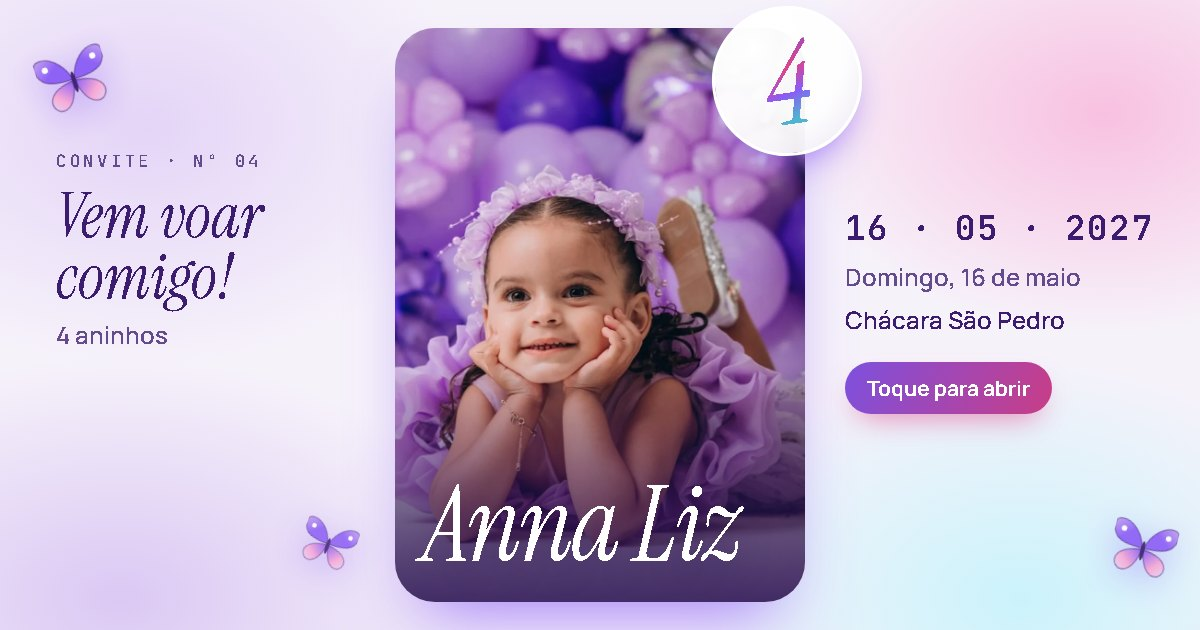
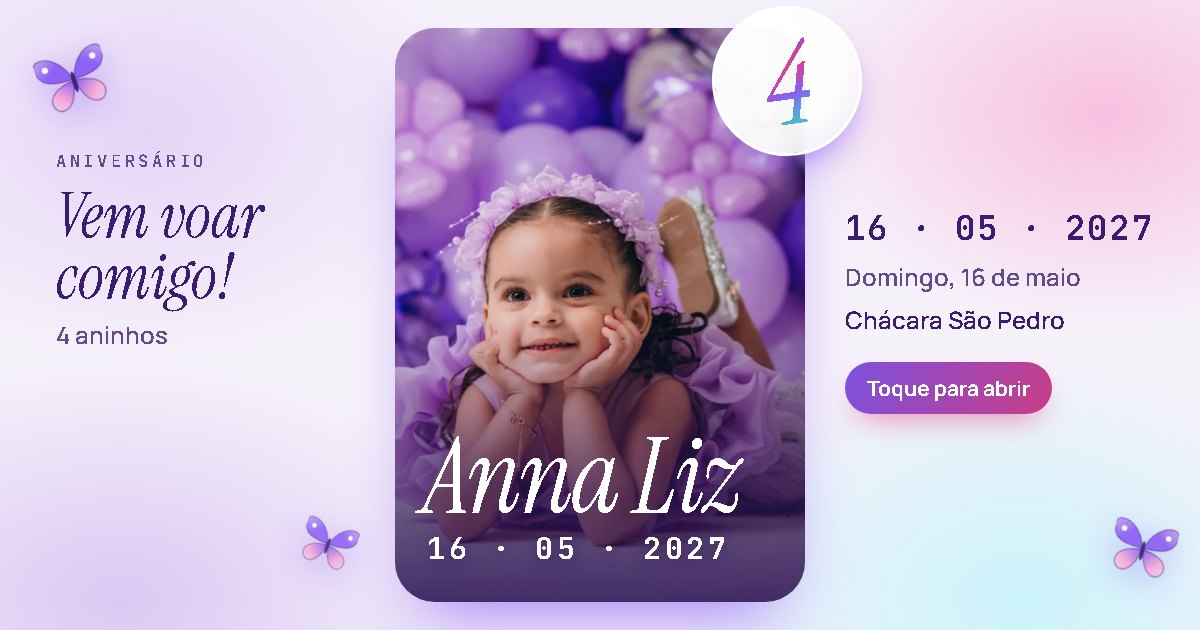
Etapa 7 (final): og.jpg no visual novo e README atualizado
- og.jpg: sem o rótulo "Convite · Nº"; a data também dentro da foto,
  para a miniatura quadrada do WhatsApp mostrar nome, idade e data.
- README: o que saiu, "Você vem?" sem número de pessoas, borboleta da
  abertura em imagem, tabela de desempenho antes/depois (7fff1bb → atual),
  Lighthouse final 88/100/100/100 e passo a passo da Vercel com o repositório.

diff --git a/README.md b/README.md
@@ -3,13 +3,13 @@
 Convite de aniversário em formato de site (uma página), feito para ser aberto **no celular** pelo link do WhatsApp.
 Visual "iridescente tech": fundo perolado, gradientes holográficos, cartões em bento e borboletas metalizadas, tudo tirado das fotos do ensaio.
 
-- Abertura com borboleta holográfica: as asas abrem e a tela se dissolve num brilho iridescente
+- Abertura com a borboleta de `originais/borboleta.png`: as asas abrem e o convite aparece em ~0,55 s depois do toque
 - Hero com a foto principal em "cartão holográfico", que inclina com o giroscópio ou o dedo
 - Borboletas 3D/2D que fogem do dedo, pousam na foto e **podem ser pegas** (meta: 10)
 - Raspadinha prateada na data e velinhas para apagar segurando o dedo (ou soprando)
 - Contagem regressiva, local e agenda, galeria com lightbox, confirmação pelo WhatsApp e Pix
 
-**Lighthouse (mobile, build de produção, Lighthouse 13):** Performance 96 · Acessibilidade 100 · Boas práticas 100 · SEO 100.
+**Lighthouse (mobile, build de produção, Lighthouse 13.6):** Performance 88 · Acessibilidade 100 · Boas práticas 100 · SEO 100 (LCP 3,2 s).
 
 ---
 
@@ -40,18 +40,15 @@ Tudo fica em **`src/config/convite.ts`**. Procure por `TODO`:
 
 O horário já está definido: `festa.dataHora` é `2027-05-16T16:00:00-03:00` e `horarioDefinido` é `true`. O cartão mostra 16:00 e a agenda (Google e `.ics`) cria o evento das 16:00 às 20:00 (`duracaoHoras: 4`). Se um dia voltar a ser "a definir", basta pôr `horarioDefinido: false`: o convite mostra "A definir" e a agenda vira evento de dia inteiro.
 
-Depois de mudar data, nome ou local, gere de novo a imagem de prévia: `npm run og`.
+Depois de mudar data, nome ou local, gere de novo a imagem de prévia: `npm run og`. A imagem (`public/og.jpg`, 1200×630) tem a foto principal, "Anna Liz", "4 aninhos" e a data; o quadrado do meio (foto + nome + data + "4") funciona sozinho na miniatura pequena do WhatsApp.
+
+A borboleta da abertura sai de `originais/borboleta.png`: `npm run borboleta` (ou `npm run borboleta -- 400 60` para escolher largura e qualidade). O original atual tem só 294 px; com um de 600 px ou mais ela fica mais nítida em telas 3x.
 
 ## 3. Publicar na Vercel (e atualizar o `site.url`)
 
-1. Crie um repositório **privado** no GitHub e envie o projeto:
-   ```bash
-   git branch -M main
-   git remote add origin https://github.com/SEU-USUARIO/convite-anna-liz.git
-   git push -u origin main
-   ```
-2. Em [vercel.com](https://vercel.com), clique em **Add New → Project**, importe o repositório e clique em **Deploy**. O Vite é detectado sozinho (build `npm run build`, saída `dist`).
-3. Copie o endereço que a Vercel mostrar, ex.: `https://convite-anna-liz.vercel.app`.
+1. O projeto já está no repositório privado `https://github.com/antonioanf/convite-borboleta` (branch `main`). Envie o que estiver só no computador com `git push`.
+2. Em [vercel.com](https://vercel.com), entre com a conta do GitHub, clique em **Add New → Project**, autorize o acesso ao repositório `convite-borboleta` (se ele não aparecer: **Adjust GitHub App Permissions** e marque o repositório) e clique em **Deploy**. O Vite é detectado sozinho (build `npm run build`, saída `dist`).
+3. Copie o endereço que a Vercel mostrar, ex.: `https://convite-borboleta.vercel.app`.
    Para um nome mais bonito: **Settings → Domains** (dá para trocar o subdomínio `.vercel.app`).
 4. No `convite.ts`, coloque esse endereço em `site.url` (sem barra no final).
 5. Rode `npm run og`, faça commit e `git push`. A Vercel publica de novo sozinha em ~1 minuto.
@@ -100,6 +97,7 @@ npm run fotos     # gera public/fotos/<nome>.webp (até 1200 px) e <nome>-600.we
 | `anna-balao3` | Só na galeria |
 
 - Cada foto tem `largura`, `altura` e `foco` (ponto do recorte, CSS `object-position`) no config.
+- Nenhuma foto tem legenda visível; a descrição fica só no `alt`.
 - As fotos atuais vieram com só ~890 px de largura (comprimidas pelo WhatsApp). Quando chegarem as do estúdio em alta, coloque-as em `originais/` com os mesmos nomes e rode `npm run fotos`.
 
 ## 7. Música e sons
@@ -119,7 +117,16 @@ npm run fotos     # gera public/fotos/<nome>.webp (até 1200 px) e <nome>-600.we
 | Raspadinha da data | Raspar ~60% completa sozinha, com brilho e confete. O cartão tem `touch-action: none`: raspar **não rola a página** | Já revelada com reduced-motion; a data está sempre no HTML; botão "Revelar" para teclado |
 | Velinhas | Segurar ~1,3 s (ou Espaço/Enter) apaga; opcional "usar microfone" para soprar | Se negar o microfone, segurar continua funcionando |
 | Contagem | Números que viram, bolinha "ao vivo"; no dia vira "É hoje!" | — |
-| Confirmação | Botão vira check, borboletas + confete, abre o WhatsApp | Aviso se o WhatsApp não estiver configurado |
+| Confirmação ("Você vem?") | Nome e recado opcional (sem número de pessoas); o botão vira check, borboletas + confete e abre o WhatsApp com a mensagem pronta | Aviso se o WhatsApp não estiver configurado |
+
+### O que saiu
+
+- O campo "quantas pessoas" do "Você vem?" (e a linha correspondente na mensagem do WhatsApp).
+- A seção e o botão "Compartilhe o convite".
+- As legendas visíveis das fotos (o texto continua no `alt`, para leitores de tela).
+- O rótulo "Convite · Nº 04" da abertura, do hero e da imagem de prévia.
+- O easter egg de chacoalhar o celular (`lib/shake.ts`, a dica "Psiu…" e o pedido de permissão de movimento). A inclinação da foto principal continua (usa o giroscópio, outro sensor).
+- A borboleta da abertura desenhada em código: agora é a imagem `originais/borboleta.png` (`npm run borboleta`).
 
 ## 9. Testes
 
@@ -152,10 +159,20 @@ npm run perf                              # ou: npm run perf -- http://localhost
 
 Abre o convite no Chromium emulando um Pixel 5 com a **CPU 4x mais lenta** e mede três fases: abertura (carregar + tocar na intro), scroll do convite inteiro com o dedo e interações (toques, rastro de brilho, raspadinha, velinhas). Para cada fase mostra as tarefas longas (> 50 ms), o tempo bloqueado e o FPS médio (mediana das rodadas), e grava o trace de cada rodada em `screenshots/desempenho/` (abre no DevTools → Performance → *Load profile*).
 
+**Antes e depois da rodada de desempenho** (Pixel 5 emulado, CPU 4x mais lenta, mediana de 2 rodadas; "antes" é o commit `7fff1bb`, "depois" é a versão atual):
+
+| Fase | Tarefas longas (antes → depois) | Tempo bloqueado | Maior tarefa | FPS médio | Quadros lentos (> 50 ms) |
+|---|---|---|---|---|---|
+| Abertura | 8,5 → 7 | 956 → 899 ms | 461 → 344 ms | 24,5 → 38,5 | 16 → 8,5 |
+| Scroll do convite | 53,5 → **4** | 315 → **15** ms | 93 → 59 ms | 23,3 → 29,4 | 106,5 → **26** |
+| Interações | 7 → 2,5 | 84 → 97 ms | 105 → 118 ms | 27,3 → 37,5 | 59,5 → 11,5 |
+
+O FPS fica abaixo de 60 porque a CPU está 4x mais lenta de propósito; num celular de verdade a folga é maior.
+
 ## 10. Como funciona por dentro
 
 ```
-index.html                 intro (borboleta holográfica) em HTML/CSS puro: aparece instantaneamente
+index.html                 intro em HTML/CSS puro (borboleta embutida como imagem): aparece instantaneamente
 src/main.ts                entrada pequena: intro + moldura no desktop
 src/config/convite.ts      ← TODO o conteúdo
 src/config/tema.ts         paleta → variáveis CSS (+ tons de texto com contraste AA)
@@ -187,4 +204,4 @@ src/components/
 ### Bibliotecas
 
 Runtime: Vite, React, TypeScript, Tailwind CSS v4, Framer Motion, GSAP + ScrollTrigger, Lenis, React Three Fiber + drei, canvas-confetti (baixado só na primeira comemoração).
-Só para desenvolvimento: Playwright (testes e imagem OG), `@fontsource` (fontes), `sharp` (conversão das fotos).
+Só para desenvolvimento: Playwright (testes e imagem OG), `@fontsource` (fontes), `sharp` (conversão das fotos e da borboleta da abertura).
